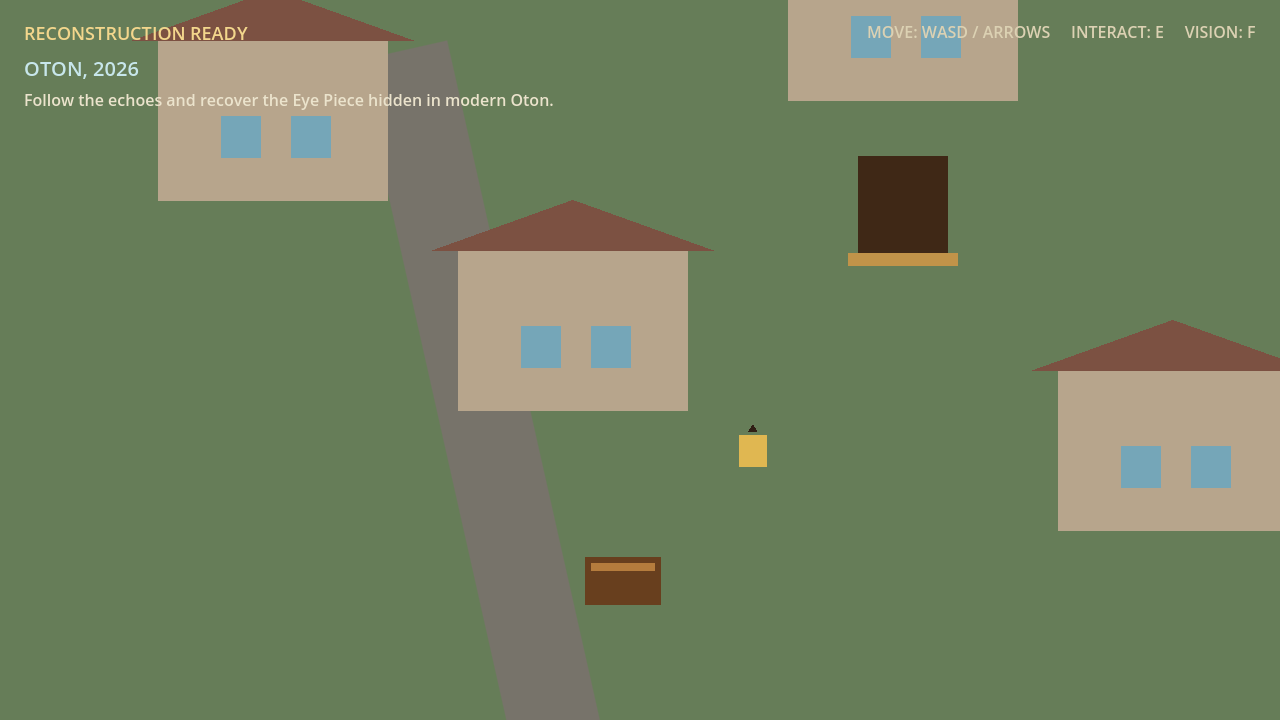
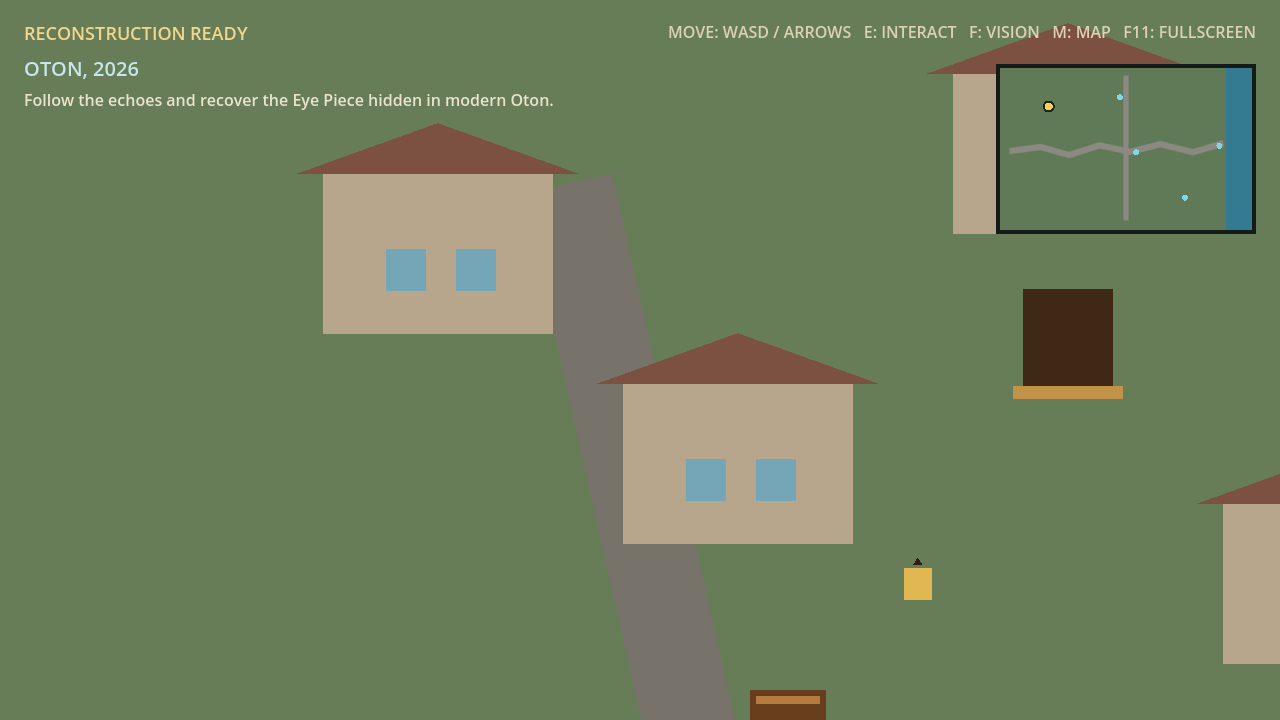
feat: add fullscreen navigation maps

diff --git a/README.md b/README.md
@@ -11,6 +11,8 @@ Controls:
 - `WASD` or arrow keys: move
 - `E`: search, enter a building, exit, or recover an artifact
 - `F`: use the recovered Eye Piece to witness the past
+- `M`: open or close the exploration map and view your location
+- `F11`: toggle fullscreen mode
 
 ## Current Game Flow
 
@@ -20,6 +22,8 @@ Controls:
 4. Recover the Nose Piece to complete the Oton Gold Death Mask discovery flow.
 
 The two outdoor scenes share river, residential, craft, market, and burial-area anchors. Their buildings, routes, props, vegetation, and atmosphere are authored independently for each era.
+
+A live minimap appears in the top-right during exploration. The full map shows the current era and coordinates without revealing either artifact's hiding place. Inside buildings it marks the outdoor position you will return to.
 
 ## Team Workflow
 